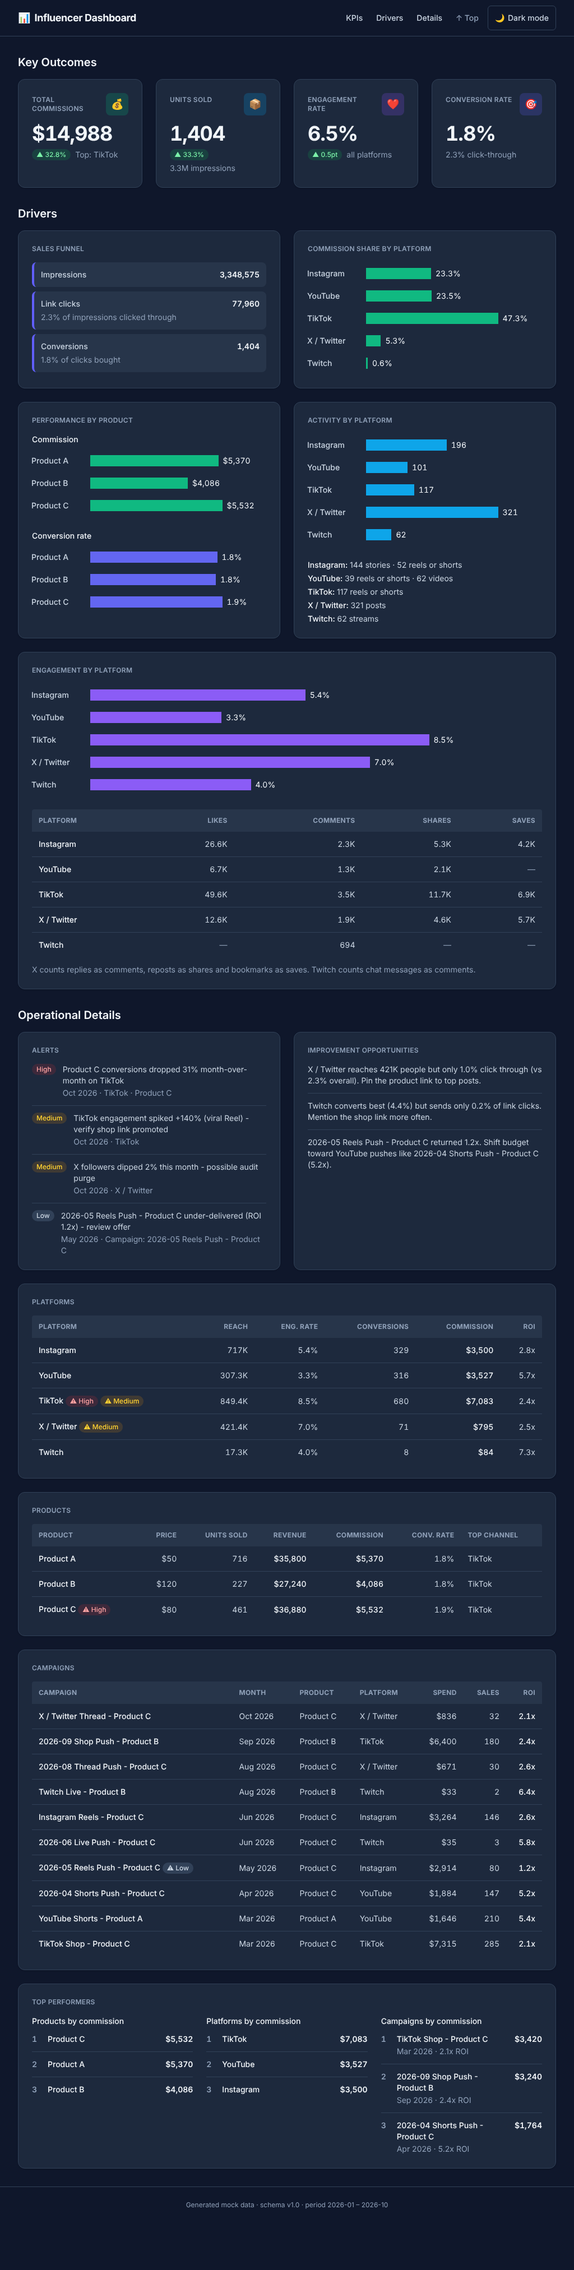
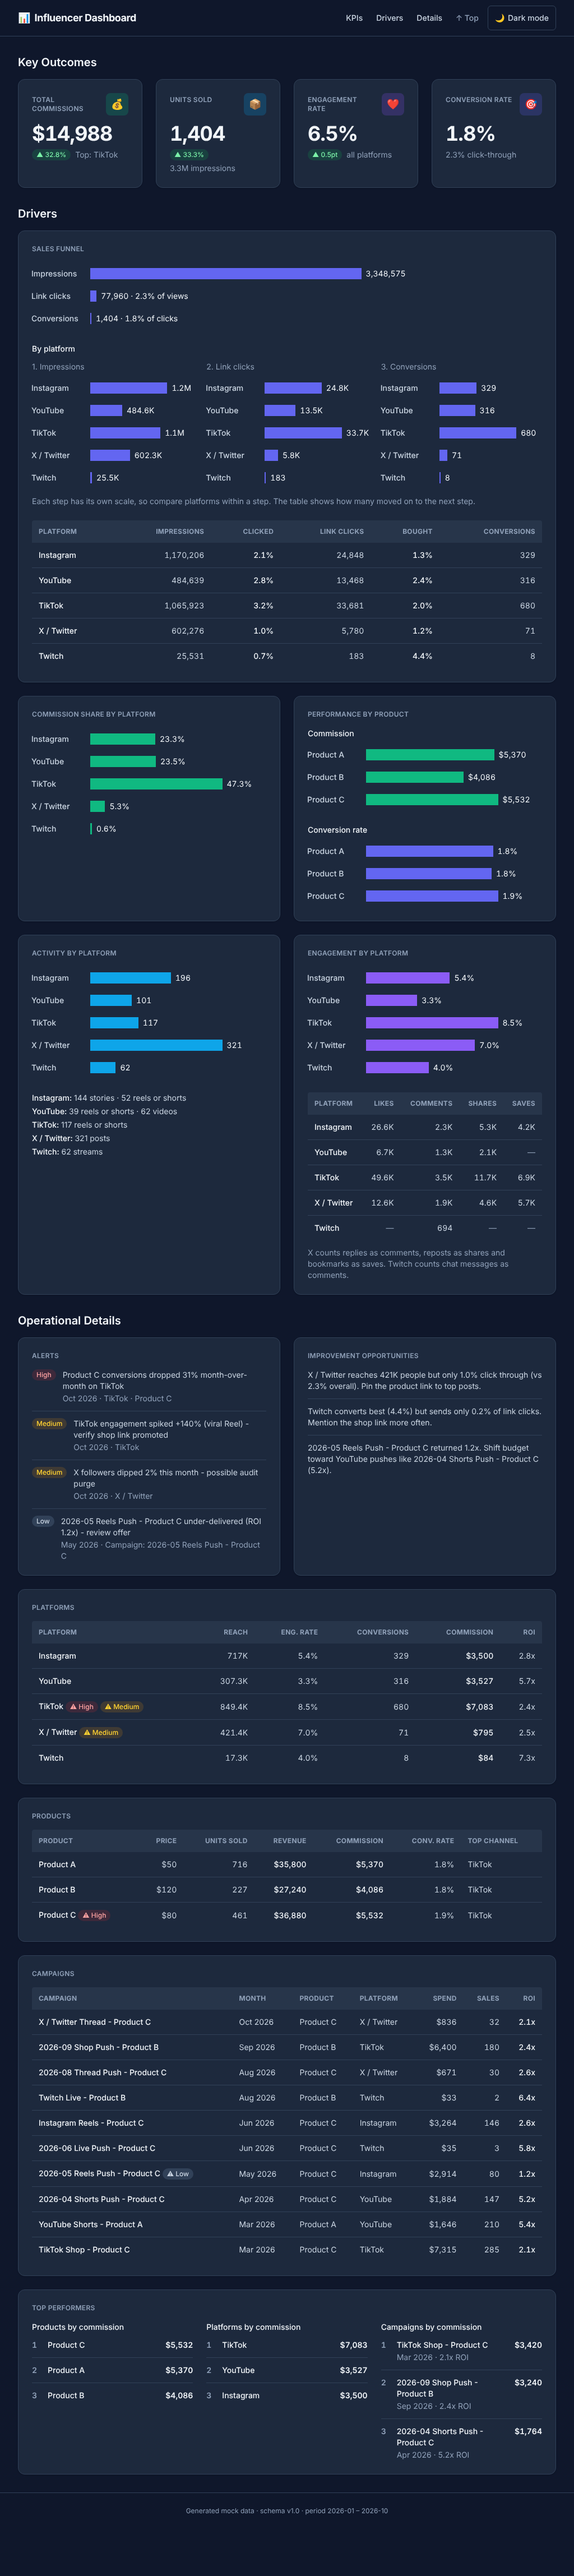
Draw the sales funnel as labelled bars, overall and per platform
The funnel is now a full-width card above the Drivers grid: linear bars
for impressions, link clicks and conversions with raw values and step
rates, one chart per step across platforms, and a step-rate table.
Non-zero bars keep a 2px minimum so the smallest steps stay visible.

Claude-Session: https://claude.ai/code/session_018vAGCnrhPDK2QZmrSrs5ox

diff --git a/app.js b/app.js
@@ -148,8 +148,10 @@
   }
 
   // rows: [{ label, value, display }]. Bars are scaled to the largest value × 0.75
-  // so the outside label of the longest bar still fits (design-spec §7).
+  // so the outside label of the longest bar still fits (design-spec §7); opts.scale
+  // lowers that for longer labels. Bars never shrink below a 2px sliver.
   function chartTable(opts) {
+    var scale = opts.scale || 0.75;
     var max = 0;
     opts.rows.forEach(function (r) { if (r.value > max) max = r.value; });
 
@@ -164,8 +166,8 @@
       th.setAttribute("scope", "row");
       row.appendChild(th);
 
-      var td = el("td");
-      td.style.setProperty("--size", String(max > 0 ? (r.value / max) * 0.75 : 0));
+      var td = el("td", r.value > 0 ? "min-w-0.5" : "");
+      td.style.setProperty("--size", String(max > 0 ? (r.value / max) * scale : 0));
       td.style.setProperty("--color", opts.color);
       td.appendChild(el("span", "data whitespace-nowrap text-sm tabular-nums ps-2 " + T.heading, r.display));
       row.appendChild(td);
@@ -270,21 +272,34 @@
     return node;
   }
 
-  // stages: [{ label, value, rate }]. Stages span three orders of magnitude, so
-  // they are listed with their step rate instead of drawn as linear bars.
+  // Overall funnel as linear bars with raw values and step rates, then the same
+  // stages per platform (each chart scaled to its own stage) and a step-rate table.
+  // stages: [{ label, value, display }]; byPlatform: [{ subtitle, caption, rows }].
   function funnel(opts) {
     var node = card(opts.title);
-    var list = el("ol", "space-y-2");
-    opts.stages.forEach(function (s) {
-      var item = el("li", "rounded-lg border-l-4 border-indigo-500 bg-gray-50 dark:bg-slate-700/50 px-3 py-3");
-      var line = el("div", "flex items-baseline justify-between gap-3 text-sm");
-      line.appendChild(el("span", "font-medium " + T.body, s.label));
-      line.appendChild(el("span", "font-semibold tabular-nums " + T.heading, s.value));
-      item.appendChild(line);
-      if (s.rate) item.appendChild(el("p", "mt-1 text-sm " + T.muted, s.rate));
-      list.appendChild(item);
+    var overall = el("div");
+    overall.appendChild(chartTable({
+      caption: opts.caption,
+      color: ACCENT.performance.color,
+      scale: 0.6,
+      rows: opts.stages
+    }));
+    node.appendChild(overall);
+
+    node.appendChild(el("p", "text-sm font-medium mt-6 mb-3 " + T.heading, "By platform"));
+    var grid = el("div", "grid gap-6 lg:grid-cols-3");
+    opts.byPlatform.forEach(function (stage) {
+      var col = el("div", "min-w-0");
+      col.appendChild(el("p", "text-sm mb-2 " + T.muted, stage.subtitle));
+      col.appendChild(chartTable({ caption: stage.caption, color: ACCENT.performance.color, rows: stage.rows }));
+      grid.appendChild(col);
     });
-    node.appendChild(list);
+    node.appendChild(grid);
+    node.appendChild(el("p", "mt-3 text-sm " + T.muted, "Each step has its own scale, so compare platforms within a step. The table shows how many moved on to the next step."));
+
+    var rates = table(opts.rates);
+    rates.className += " mt-6";
+    node.appendChild(rates);
     return node;
   }
 
@@ -370,17 +385,56 @@
 
   /* ---------- 2. Drivers (design-spec §8) ---------- */
 
+  var driverLead = document.getElementById("driver-lead");
+  if (driverLead) {
+    driverLead.appendChild(funnel({
+      title: "Sales Funnel",
+      caption: "Impressions, link clicks and conversions across all platforms, with the share that reached each step",
+      stages: [
+        { label: "Impressions", value: derived.totalImpressions, display: count(derived.totalImpressions) },
+        { label: "Link clicks", value: derived.totalLinkClicks, display: count(derived.totalLinkClicks) + " · " + pct(derived.overallCtr) + " of views" },
+        { label: "Conversions", value: derived.totalConversions, display: count(derived.totalConversions) + " · " + pct(derived.overallConversionRate) + " of clicks" }
+      ],
+      byPlatform: [
+        { key: "impressions", subtitle: "1. Impressions", caption: "Impressions per platform" },
+        { key: "linkClicks", subtitle: "2. Link clicks", caption: "Link clicks per platform" },
+        { key: "conversions", subtitle: "3. Conversions", caption: "Conversions per platform" }
+      ].map(function (stage) {
+        return {
+          subtitle: stage.subtitle,
+          caption: stage.caption,
+          rows: DATA.platforms.map(function (p) {
+            return { label: p.name, value: p[stage.key], display: stage.key === "conversions" ? count(p[stage.key]) : compact(p[stage.key]) };
+          })
+        };
+      }),
+      rates: {
+        title: "Step rates by platform",
+        columns: [
+          { title: "Platform" },
+          { title: "Impressions", numeric: true },
+          { title: "Clicked", numeric: true },
+          { title: "Link clicks", numeric: true },
+          { title: "Bought", numeric: true },
+          { title: "Conversions", numeric: true }
+        ],
+        rows: DATA.platforms.map(function (p) {
+          return [
+            { text: p.name, className: "font-medium " + T.heading },
+            count(p.impressions),
+            { text: pct(p.ctr), className: "font-medium " + T.heading },
+            count(p.linkClicks),
+            { text: pct(p.conversionRate), className: "font-medium " + T.heading },
+            count(p.conversions)
+          ];
+        })
+      }
+    }));
+  }
+
   var driverGrid = document.getElementById("driver-grid");
   if (driverGrid) {
     [
-      funnel({
-        title: "Sales Funnel",
-        stages: [
-          { label: "Impressions", value: count(derived.totalImpressions) },
-          { label: "Link clicks", value: count(derived.totalLinkClicks), rate: pct(derived.overallCtr) + " of impressions clicked through" },
-          { label: "Conversions", value: count(derived.totalConversions), rate: pct(derived.overallConversionRate) + " of clicks bought" }
-        ]
-      }),
       barChart({
         title: "Commission Share by Platform",
         caption: "Share of total commission earned on each platform, in percent",

diff --git a/index.html b/index.html
@@ -73,6 +73,9 @@
     <!-- MIDDLE BLOCK: Drivers -->
     <section id="drivers" class="scroll-mt-20" aria-labelledby="drivers-heading">
       <h2 id="drivers-heading" class="text-xl font-semibold mb-4">Drivers</h2>
+      <div id="driver-lead" class="mb-4 lg:mb-6">
+        <!-- funnel(): full-width sales funnel, rendered by app.js -->
+      </div>
       <div id="driver-grid" class="grid gap-4 lg:grid-cols-2 lg:gap-6 lg:*:last:odd:col-span-2">
         <!-- barChart() cards, rendered by app.js -->
       </div>

diff --git a/resources/design-spec.md b/resources/design-spec.md
@@ -112,7 +112,7 @@ Mobile-first. Only three steps: base (under 768px), `md:` (768px+), `lg:` (1024p
 | Block spacing | `space-y-8` | same | same |
 | Sticky nav | Title left; links and toggle right; links stay on one row | same | same |
 | KPI cards | `grid gap-4` (1 column) | `md:grid-cols-2` | `lg:grid-cols-4 lg:gap-6` |
-| Driver charts | 1 column | 1 column | `lg:grid-cols-2` |
+| Driver charts | Sales funnel first, full width, above the grid (`#driver-lead`); then 1 column | same | funnel full width; grid `lg:grid-cols-2` |
 | Detail tables | 1 column, `overflow-x-auto` | same | full width (`lg:col-span-2`) |
 | Detail lists and alerts | 1 column | 1 column | `lg:grid-cols-2` |
 | Card padding | `p-4` | `p-4` | `lg:p-6` |
@@ -138,7 +138,7 @@ Each component is **one render function in `app.js`**. Never hand-copy a compone
 | `barChart({title, ...})` options | `charts: [...]` stacks several charts under their own subtitles (used for product commission + conversion rate); `table` adds a breakdown table under the chart; `breakdown` adds a "Label: detail" list; `note` adds a muted footnote |
 | `table({columns, rows})` | Table inside a focusable `overflow-x-auto` region: `w-full text-sm`; header row as tokens; `th`/`td` `px-3 py-3 whitespace-nowrap`; numeric columns `text-right tabular-nums`. A cell `{text, className, alerts}` shows `alertMarker()`s after its text. When columns overflow, a muted "Scroll sideways" hint appears under it |
 | `dataTable({title, columns, rows})` | `table()` inside a full-width `card()` (`lg:col-span-2`) |
-| `funnel({title, stages})` | Ordered list of stages: each a `bg-gray-50 dark:bg-slate-700/50 border-l-4 border-indigo-500 rounded-lg px-3 py-3` row with label and value, and a muted step-rate line |
+| `funnel({title, caption, stages, byPlatform, rates})` | Overall funnel as a Charts.css bar chart (indigo, scale 0.6 so "77,960 · 2.3% of views" fits), then "By platform": one chart per step (`lg:grid-cols-3`), each scaled to its own step, with a muted note saying so; then a `table()` of each platform's step rates and raw counts |
 | `severityBadge(severity)` / `alertMarker(alert)` | Alert severity pill (§3). The marker adds ⚠, `role="img"` and an `aria-label` with the alert message, and sits next to the related table row |
 | `listCard({title, items, ordered})` / `list(...)` | Divided list; each item has an optional badge, text, muted meta line and right-aligned value. `ordered` numbers the items |
 
@@ -159,6 +159,8 @@ Each component is **one render function in `app.js`**. Never hand-copy a compone
 - Rows **must** sit inside `<tbody>`; Charts.css only styles `tbody tr`. When building with `createElement`, create the `<tbody>` explicitly.
 - `--size` is the value divided by the largest value, times 0.75, so the outside label of the biggest bar still fits at 375px.
 - Value labels get `whitespace-nowrap` so short bars don't wrap them.
+- Bars are linear, never log-scaled. A non-zero bar is at least 2px wide (`min-w-0.5`) so tiny values still show as a sliver; the value label carries the exact number.
+- A chart with long value labels may lower the 0.75 factor (`scale` option); the funnel uses 0.6.
 - Let the rows set the chart's height; don't wrap it in a fixed-height box. Charts.css sets `height: 100%`, so each chart sits in a plain `<div>`: otherwise it takes the height of the stretched grid card and pushes the content below it out of the card.
 - One series colour per chart: the accent of the metric shown.
 
@@ -174,7 +176,7 @@ Built from `resources/brief.md`. Items marked "No" are deliberately left out; do
 | KPIs | Performance | Yes | Card 4: conversion rate (conversions ÷ link clicks); sub-line: CTR |
 | KPIs | Efficiency | Partly | No card. ROI and cost per conversion appear in the tables. |
 | KPIs | Retention, Satisfaction | No | No data source for an affiliate influencer |
-| Drivers | Conversion by stage | Yes | Funnel: impressions → link clicks → conversions, each with its step rate. A stage list, not Charts.css bars: the stages differ by three orders of magnitude, so linear bars would hide conversions |
+| Drivers | Conversion by stage | Yes | Funnel: impressions → link clicks → conversions as linear bars labelled with raw values and step rates, the same three steps per platform, and a step-rate table. Conversions are a sliver next to impressions; that is the point, and the labels give the numbers |
 | Drivers | Performance by platform | Yes | Bar chart: commission share per platform |
 | Drivers | Performance by product | Yes | Two bar charts in one card: commission (emerald) and conversion rate (indigo) per product |
 | Drivers | Activity | Yes | Bar chart of content pieces per platform (sky), with a "Platform: 144 stories · 52 reels or shorts" breakdown list |
@@ -186,7 +188,7 @@ Built from `resources/brief.md`. Items marked "No" are deliberately left out; do
 | Details | Alerts | Yes | Conversion drops and spikes, shown next to the related row as well as in the list |
 | Details | Top lists | Yes | "Top Performers" card: top products, top 3 platforms, top 3 campaigns, all by commission. "Improvement Opportunities" is its own card |
 
-Card order. **Drivers**: Sales funnel, Commission share by platform, Performance by product, Activity by platform, Engagement by platform (the lone last card spans full width). **Details**: Alerts and Improvement opportunities side by side, then the Platforms, Products and Campaigns tables, then Top performers (full width, three columns from `md:`).
+Card order. **Drivers**: Sales funnel (full width, above the grid), then Commission share by platform, Performance by product, Activity by platform, Engagement by platform. **Details**: Alerts and Improvement opportunities side by side, then the Platforms, Products and Campaigns tables, then Top performers (full width, three columns from `md:`).
 
 ## 9. Theme toggle
 

diff --git a/resources/decisions.md b/resources/decisions.md
@@ -94,7 +94,15 @@
 ---
 
 ### [2026-10-20] Drivers and Details build-out
-- **Decision**: Build the rest of the Drivers and Details blocks (spec §8). The funnel is a stage list with step rates, not Charts.css bars. Activity and engagement are normalised onto shared columns in the generator (`derived.activityByPlatform`, `derived.interactionsByPlatform`), with `null` for "doesn't apply". Top lists, ranked by commission, and improvement opportunities are also generated (`derived.rankings`, `derived.opportunities`). Alerts use a red / amber / gray severity pill, and ROI is shown as `2.8x`.
-- **Rationale**: Impressions (3.3M) and conversions (1.4K) are three orders of magnitude apart, so linear bars would hide the stages that matter. Platforms name content and interactions differently (X replies vs comments, Twitch chat), so mapping them in the generator keeps `app.js` free of business logic. Campaigns are ranked by commission rather than ROI because tiny Twitch tests ($33 spend) top any ROI ranking. Amber gives "medium" alerts a colour that isn't read as a trend direction.
-- **Alternatives considered**: a log-scale funnel chart (rejected: hard to read correctly); stacked multi-colour activity and engagement bars (rejected: breaks "one series colour per chart" and needs a legend); a sparse activity table (tried, rejected: mostly dashes and it scrolled in a half-width card).
+- **Decision**: Build the rest of the Drivers and Details blocks (spec §8). Activity and engagement are normalised onto shared columns in the generator (`derived.activityByPlatform`, `derived.interactionsByPlatform`), with `null` for "doesn't apply". Top lists, ranked by commission, and improvement opportunities are also generated (`derived.rankings`, `derived.opportunities`). Alerts use a red / amber / gray severity pill, and ROI is shown as `2.8x`.
+- **Rationale**: Platforms name content and interactions differently (X replies vs comments, Twitch chat), so mapping them in the generator keeps `app.js` free of business logic. Campaigns are ranked by commission rather than ROI because tiny Twitch tests ($33 spend) top any ROI ranking. Amber gives "medium" alerts a colour that isn't read as a trend direction.
+- **Alternatives considered**: stacked multi-colour activity and engagement bars (rejected: breaks "one series colour per chart" and needs a legend); a sparse activity table (tried, rejected: mostly dashes and it scrolled in a half-width card).
+- **Status**: Accepted (2026-10-20).
+
+---
+
+### [2026-10-20] Sales funnel drawn as linear bars, overall and per platform
+- **Decision**: The funnel is a full-width card above the Drivers grid. It shows overall impressions → link clicks → conversions as linear Charts.css bars labelled with raw values and step rates, then one chart per step across platforms, then a table of each platform's step rates. Non-zero bars are at least 2px wide.
+- **Rationale**: mae wants the size of each drop visible as a picture, even when the smallest step is a sliver, as long as the labels give the exact numbers. Per-step charts with their own scale keep every platform's bar readable, and the table gives the per-platform drop-off.
+- **Alternatives considered**: a stage list with numbers only (first version; rejected by mae as too little visual information); a log scale (rejected: understates the drop); one mini funnel per platform on a shared scale (rejected: clicks and conversions would be slivers on every platform, so platforms couldn't be compared).
 - **Status**: Accepted (2026-10-20).

diff --git a/memory-bank/current-status.md b/memory-bank/current-status.md
@@ -6,7 +6,7 @@
 
 - `index.html` + `app.js`: sticky nav with a dark/light toggle; 4 KPI cards (Commissions, Units sold, Engagement rate, Conversion rate); a Charts.css "commission share by platform" chart; the products table. All numbers come from `window.DATA`.
 - `data.js` generated by `scripts/generate-data.py` (seed 20261020, schema v1.0; invariant checks pass). It contains 3 products, 5 platforms, 10 campaigns, 10 monthly rows, 4 alerts, and derived rollups.
-- Drivers block (2026-10-20): sales funnel, commission share by platform, performance by product (commission + conversion rate), activity by platform (with content-type breakdown), engagement by platform (with interactions table).
+- Drivers block (2026-10-20): sales funnel (full width: overall bars, per-platform bars per step, step-rate table), commission share by platform, performance by product (commission + conversion rate), activity by platform (with content-type breakdown), engagement by platform (with interactions table).
 - Details block (2026-10-20): alerts list, improvement opportunities, platforms / products / campaigns tables with alert markers on the related rows, top performers. Checked at 375, 768, 1024 and 1440px in both themes: no console errors, no horizontal page scroll.
 - `derived` gained `activityByPlatform`, `interactionsByPlatform`, `rankings` and `opportunities`; X gained `postsCount`. Invariant checks cover them.
 - Docs consolidated (2026-10-20): `resources/design-spec.md` is the single spec. Superseded docs are in `archive/`.
